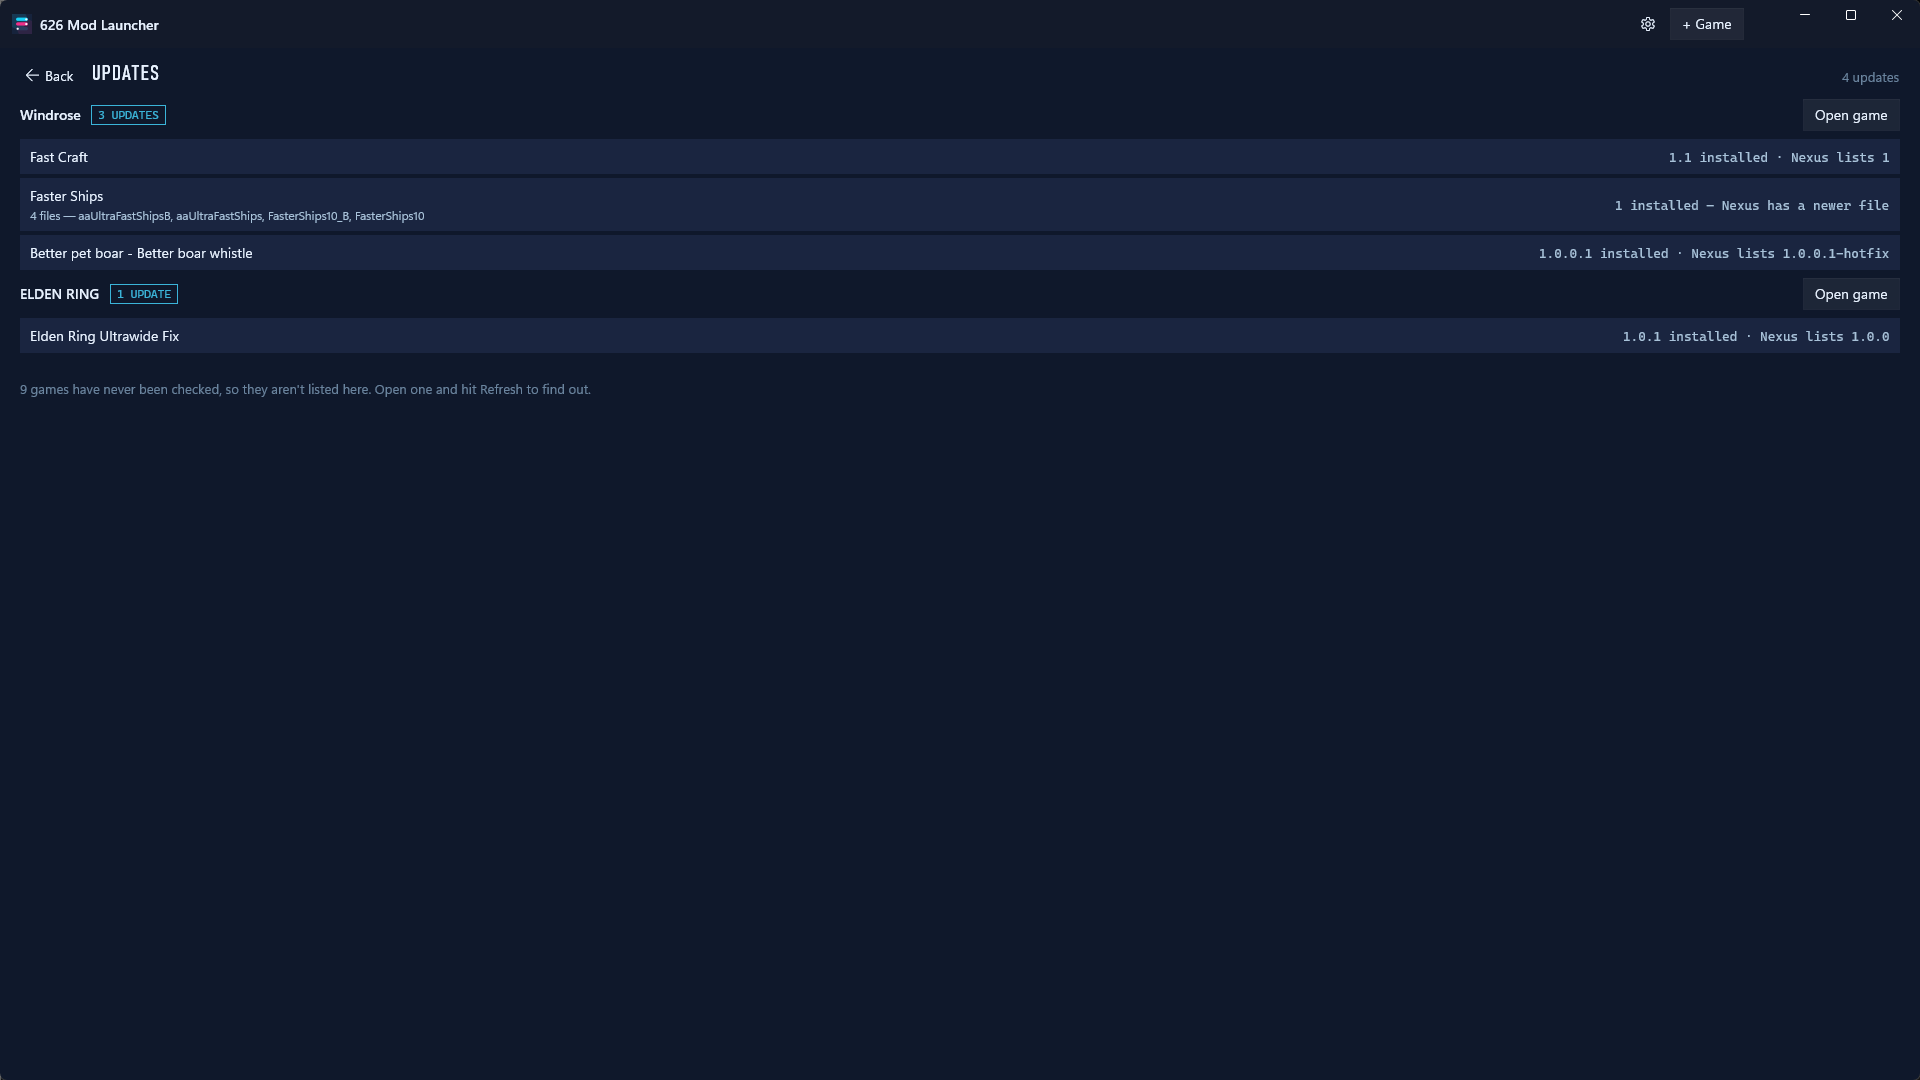
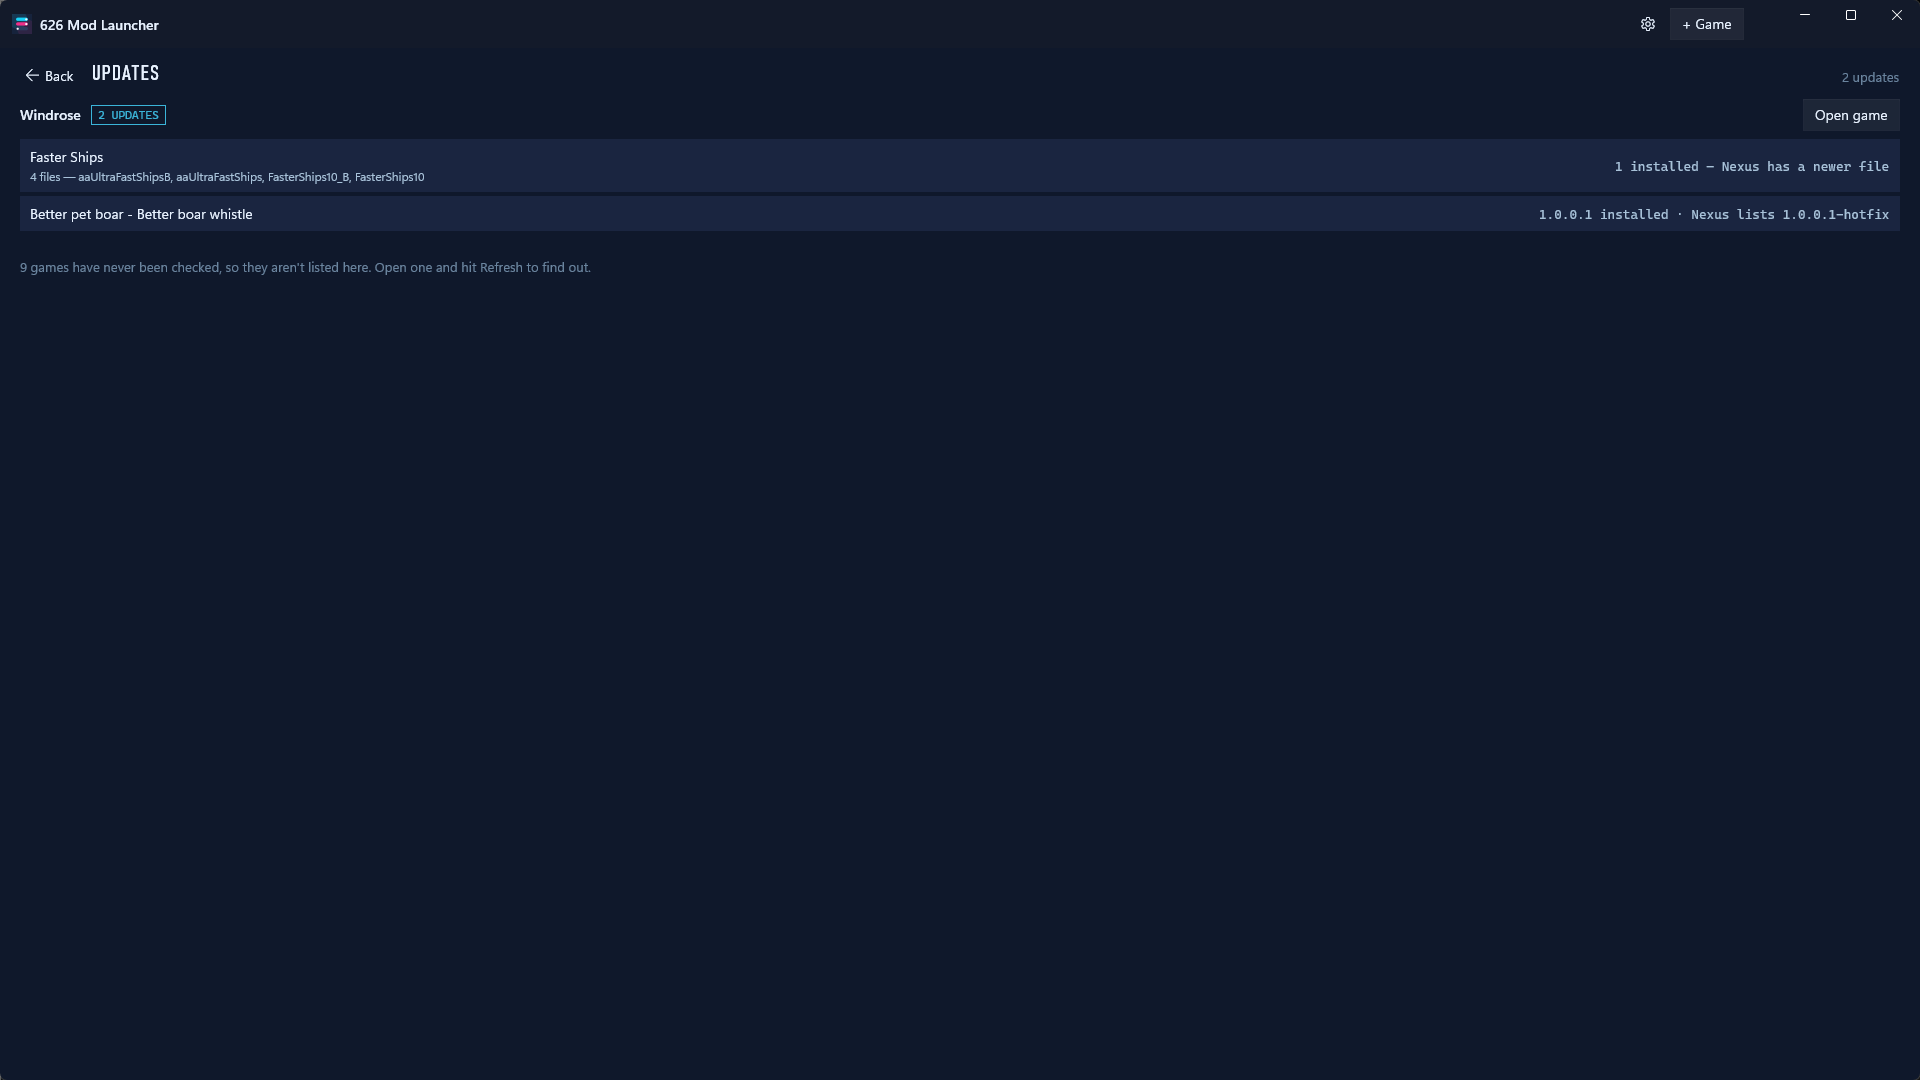
fix(updates): an update is not just a difference - it has to point forwards
The Updates view listed mods whose installed version is provably NEWER than the
one Nexus lists: "1.1 installed - Nexus lists 1", "1.0.1 installed - Nexus lists
1.0.0". Spotted in the 0.19 store screenshots.

A10 fixed what those rows SAY and never touched whether they EXIST. Its own test
file names both of them as the motivating examples - "two apparent DOWNGRADES the
launcher was inviting the user to act on" - and stopped the arrow being drawn.
The rows survived, because the pending decision is string inequality:

    latest != installed

which never asks which one is newer. PendingUpdate.Compare has been able to
answer that since A10; nothing consulted it. So the launcher went on inviting the
user to update to an older release, just more carefully worded.

LatestIsProvablyOlder is that missing clause, and it goes in BOTH places that
decide pending - Mod.UpdateAvailable for the row chip and ModUpdateSummary for
the badge and the view. Those two mirror each other by design and say so in a
comment: a divergence shows an UPDATE chip on a row and then an empty Updates
view. They had the same gap and get the same fix.

Only the PROVABLE case is dropped:

  1.0.1 vs 1.0.0        provably backwards   -> not an update
  1.0 vs 1.2            provably forwards    -> still an update
  1.0.0.1 vs 1.0.0.1-hotfix   unorderable    -> still listed, no direction implied

Refusing to guess has to cut both ways or it is not a principle. The hotfix
[…]

diff --git a/tests/ModManager.Tests/UpdateIsNotJustADifferenceTests.cs b/tests/ModManager.Tests/UpdateIsNotJustADifferenceTests.cs
@@ -1,0 +1,146 @@
+using ModManager.Core;
+
+namespace ModManager.Tests;
+
+/// <summary>
+/// A27, the half that was missed. A10 fixed what the row SAYS and never touched whether the row
+/// EXISTS.
+///
+/// <para>Its own test file names the two motivating examples — <c>1.1 → 1</c> and
+/// <c>1.0.1 → 1.0.0</c>, "two apparent DOWNGRADES the launcher was inviting the user to act on". The
+/// arrow went away. The rows did not: both were still in the Updates view when the 0.19 store
+/// screenshots were taken, reading <i>"1.0.1 installed · Nexus lists 1.0.0"</i>. Carefully worded,
+/// still an invitation to update to an older release.</para>
+///
+/// <para>The decision was string inequality: <c>latest != installed</c>. It never asked which was
+/// newer, although <see cref="PendingUpdate.Compare"/> had been able to answer since A10.</para>
+///
+/// <para><b>What this deliberately does not change.</b> Nexus's own per-user flag still outranks
+/// everything — Nexus knows which FILE was downloaded and we often do not. And an unorderable pair
+/// (<c>1.0.0.1</c> vs <c>1.0.0.1-hotfix</c>) still lists, because refusing to guess is the point: the
+/// hotfix probably IS newer and the row says so without implying a direction. Only the case we can
+/// PROVE is backwards gets dropped.</para>
+/// </summary>
+public class UpdateIsNotJustADifferenceTests
+{
+    private static Mod Installed(string? version, string? latest, bool? flag = null) => new()
+    {
+        Name = "m",
+        Version = version,
+        NexusLatestVersion = latest,
+        NexusUpdateAvailable = flag,
+    };
+
+    // ---- the row-level chip -------------------------------------------------------------------
+
+    [Theory]
+    [InlineData("1.1", "1")]        // A10's first named example
+    [InlineData("1.0.1", "1.0.0")]  // A10's second
+    [InlineData("2.0", "1.9.9")]
+    [InlineData("1.0.0.2", "1.0.0.1")]
+    public void A_version_we_can_prove_is_older_is_not_an_update(string installed, string latest)
+    {
+        // The whole bug in one assertion: Nexus listing something OLDER than what is on disk is not
+        // an update, and saying so carefully does not make it one.
+        Assert.False(Installed(installed, latest).UpdateAvailable);
+    }
+
+    [Theory]
+    [InlineData("1.0", "2.0")]
+    [InlineData("1.0.0", "1.0.1")]
+    [InlineData("1", "1.1")]
+    public void A_version_we_can_prove_is_newer_still_is_one(string installed, string latest)
+        => Assert.True(Installed(installed, latest).UpdateAvailable);
+
+    [Theory]
+    [InlineData("1.0.0.1", "1.0.0.1-hotfix")]
+    [InlineData("1.0", "1.0b")]
+    [InlineData("2024.1", "final")]
+    public void A_pair_we_cannot_order_still_lists_because_refusing_to_guess_cuts_both_ways(
+        string installed, string latest)
+    {
+        // Dropping these would hide real updates to tidy away a display problem. The row names both
+        // versions and implies no direction — that wording already exists and is correct.
+        Assert.True(Installed(installed, latest).UpdateAvailable);
+    }
+
+    [Fact]
+    public void Nexus_own_flag_outranks_the_compare_in_both_directions()
+    {
+        // Nexus knows which FILE the user downloaded; the version strings often cannot. A flag saying
+        // "behind" wins even when the numbers look backwards, and a flag saying "not behind" wins even
+        // when they look forwards.
+        Assert.True(Installed("1.0.1", "1.0.0", flag: true).UpdateAvailable);
+        Assert.False(Installed("1.0", "2.0", flag: false).UpdateAvailable);
+    }
+
+    [Fact]
+    public void Equivalent_versions_are_still_not_an_update()
+    {
+        // Unchanged behaviour, pinned because the new clause sits right next to it: "1" and "1.0" are
+        // the same release, and were already excluded by the plain string compare.
+        Assert.False(Installed("1.0", "1.0").UpdateAvailable);
+    }
+
+    // ---- the badge and the Updates view, which must agree with the chip ------------------------
+
+    private static GameContext Fixture()
+    {
+        var root = TestSupport.TempDir("update-direction-");
+        var gameRoot = Path.Combine(root, "game");
+        Directory.CreateDirectory(gameRoot);
+        return Scanner.GameContext(new GameEntry
+        {
+            Id = "t", GameName = "T", GameRoot = gameRoot,
+            ModLocations = new[] { new ModLocation("mods", "mods", "mods") },
+            FileExtensions = new[] { "pak" },
+            NexusGameDomain = "eldenring",
+        });
+    }
+
+    [Fact]
+    public void The_badge_and_the_view_drop_the_backwards_rows_too()
+    {
+        // ModUpdateSummary mirrors Mod.UpdateAvailable by design and says so in a comment: a
+        // divergence shows an UPDATE chip on a row and then an empty Updates view. Both had the same
+        // gap, so both get the same clause, and this is what keeps them honest about it.
+        var c = Fixture();
+        Scanner.SaveMetadata(c, new Dictionary<string, ModMeta>
+        {
+            // The two from the store screenshot.
+            ["fastcraft"] = new ModMeta { Title = "Fast Craft", Version = "1.1", NexusLatestVersion = "1", NexusModId = 1 },
+            ["ultrawide"] = new ModMeta { Title = "Ultrawide Fix", Version = "1.0.1", NexusLatestVersion = "1.0.0", NexusModId = 2 },
+            // Genuinely behind.
+            ["real"] = new ModMeta { Title = "Real", Version = "1.0", NexusLatestVersion = "1.2", NexusModId = 3 },
+            // Unorderable — stays.
+            ["hotfix"] = new ModMeta { Title = "Hotfix", Version = "1.0.0.1", NexusLatestVersion = "1.0.0.1-hotfix", NexusModId = 4 },
+        });
+
+        var summary = ModUpdateSummary.ForGame(c.Game);
+
+        Assert.True(summary.Checked);
+        Assert.DoesNotContain(summary.Pending, p => p.ModKey == "fastcraft");
+        Assert.DoesNotContain(summary.Pending, p => p.ModKey == "ultrawide");
+        Assert.Contains(summary.Pending, p => p.ModKey == "real");
+        Assert.Contains(summary.Pending, p => p.ModKey == "hotfix");
+        Assert.Equal(2, summary.Count);
+    }
+
+    [Fact]
+    public void A_game_whose_only_differences_are_backwards_reads_as_checked_with_nothing_pending()
+    {
+        // The distinction ModUpdateSummary exists to protect: Checked=true with Count=0 means "looked,
+        // nothing to do". It must not collapse into "never checked" just because every difference
+        // turned out to point the wrong way.
+        var c = Fixture();
+        Scanner.SaveMetadata(c, new Dictionary<string, ModMeta>
+        {
+            ["a"] = new ModMeta { Title = "A", Version = "1.1", NexusLatestVersion = "1", NexusModId = 1 },
+        });
+
+        var summary = ModUpdateSummary.ForGame(c.Game);
+
+        Assert.True(summary.Checked);
+        Assert.Equal(0, summary.Count);
+    }
+}

diff --git a/src/ModManager.Core/ModUpdateSummary.cs b/src/ModManager.Core/ModUpdateSummary.cs
@@ -41,6 +41,22 @@ public sealed record PendingUpdate(string GameId, string GameName, string ModKey
     /// </summary>
     public bool LatestIsProvablyNewer => Compare(InstalledVersion, LatestVersion) is int c && c < 0;
 
+    /// <summary>True when the listed version is PROVABLY older than what is installed — both parse as
+    /// plain dotted numbers and the comparison descends.
+    ///
+    /// <para>This is the inclusion rule A10 never got to. A10 fixed what a row SAYS: it stopped
+    /// drawing "1.0.1 → 1.0.0", an arrow pointing backwards. It did not change whether the row
+    /// EXISTS, because the pending decision was string inequality — <c>latest != installed</c> —
+    /// which never asks which is newer. So both of A10's own named examples were still listed a wave
+    /// later, reading "1.0.1 installed · Nexus lists 1.0.0". Carefully worded, still an invitation to
+    /// update to an older release.</para>
+    ///
+    /// <para>Only the PROVABLE case is dropped. An unorderable pair like "1.0.0.1" against
+    /// "1.0.0.1-hotfix" stays listed and says nothing about direction: the hotfix probably is newer,
+    /// and refusing to guess has to cut both ways or it is not a principle.</para></summary>
+    public static bool LatestIsProvablyOlder(string? installed, string? latest)
+        => Compare(installed, latest) is int c && c > 0;
+
     /// <summary>Numeric-only ordering, or null when either side is not a plain dotted number. Null is
     /// the answer that matters: it means "not comparable", never "equal".</summary>
     internal static int? Compare(string? a, string? b)
@@ -173,7 +189,10 @@ public static class ModUpdateSummary
             // never told; and an unknown installed version can never be "behind", because not knowing
             // what you have is a reason to stay quiet rather than a difference.
             var behind = m.NexusUpdateAvailable
-                ?? (polled && !string.IsNullOrWhiteSpace(m.Version) && latest != m.Version);
+                ?? (polled && !string.IsNullOrWhiteSpace(m.Version) && latest != m.Version
+                    // ...and not a difference that points BACKWARDS. Inequality alone listed both of
+                    // A10's named examples for another two waves.
+                    && !PendingUpdate.LatestIsProvablyOlder(m.Version, latest));
             if (!behind) continue;
 
             var modName = string.IsNullOrWhiteSpace(m.Title) ? key : m.Title;

diff --git a/src/ModManager.Core/Mod.cs b/src/ModManager.Core/Mod.cs
@@ -80,11 +80,16 @@ public sealed class Mod
     /// exactly that, and the reason it survived is that "everything needs updating" is PLAUSIBLE to
     /// someone returning to an old install — a false positive shaped like the truth never gets reported.
     /// Not knowing what is installed is a reason to stay quiet, not a reason to claim a difference.</para></summary>
+    /// <para>And a difference is not enough on its own: it has to point FORWARDS. Nexus listing a
+    /// version we can prove is older than what is on disk is not an update, and A10's careful wording
+    /// for it ("1.0.1 installed · Nexus lists 1.0.0") made the row honest without making it right.
+    /// See <see cref="PendingUpdate.LatestIsProvablyOlder"/> — an unorderable pair still lists.</para>
     public bool UpdateAvailable =>
         NexusUpdateAvailable
         ?? (!string.IsNullOrWhiteSpace(NexusLatestVersion)
             && !string.IsNullOrWhiteSpace(Version)
-            && NexusLatestVersion != Version);
+            && NexusLatestVersion != Version
+            && !PendingUpdate.LatestIsProvablyOlder(Version, NexusLatestVersion));
 }
 
 /// <summary>A per-game metadata.json entry: the real title/credit/links for a mod base.</summary>

diff --git a/docs/store-listing-0.19.0.md b/docs/store-listing-0.19.0.md
@@ -96,7 +96,7 @@ editable characters / No save mods installed"*, which is the opposite of the rev
 shot exists to make. Elden Ring is a FromSoft title, so the save format is itemised and the dialog
 shows what the feature actually does.
 
-### Three things to look at before uploading — your call, not blockers
+### Two things to look at before uploading — your call, not blockers
 
 - **`07` shows a real save path** containing your Windows username and the leading digits of a Steam
   ID, plus two character names. All truthful, none secret, and you publish under your own name anyway.
@@ -104,10 +104,10 @@ shows what the feature actually does.
 - **`07` leads with `BAN RISK` and the anti-cheat sentence.** I would keep it: the Store SKU has the
   EAC-disable mechanism sealed out entirely, so a shot of the app *warning* about anti-cheat is the
   most accurate advert for that build there is. But it is a judgement call about first impressions.
-- **`04` shows two rows where the installed version reads newer than the listed one** — *"1.1 installed
-  · Nexus lists 1"* and *"1.0.1 installed · Nexus lists 1.0.0"*. Not a capture problem; possibly A27
-  residue in how freeform Nexus version strings compare. Worth its own look, separately from this
-  submission.
+**Fixed rather than shipped:** `04` used to show two rows where the installed version read newer than
+the listed one. That was a real defect, not a capture problem — the pending rule was string
+inequality and never asked which version was newer. Both rows are gone and the shot was retaken; the
+badge went from 4 to 2. See `an update is not just a difference` in the git log.
 
 ### Two traps the capture script now handles
 
